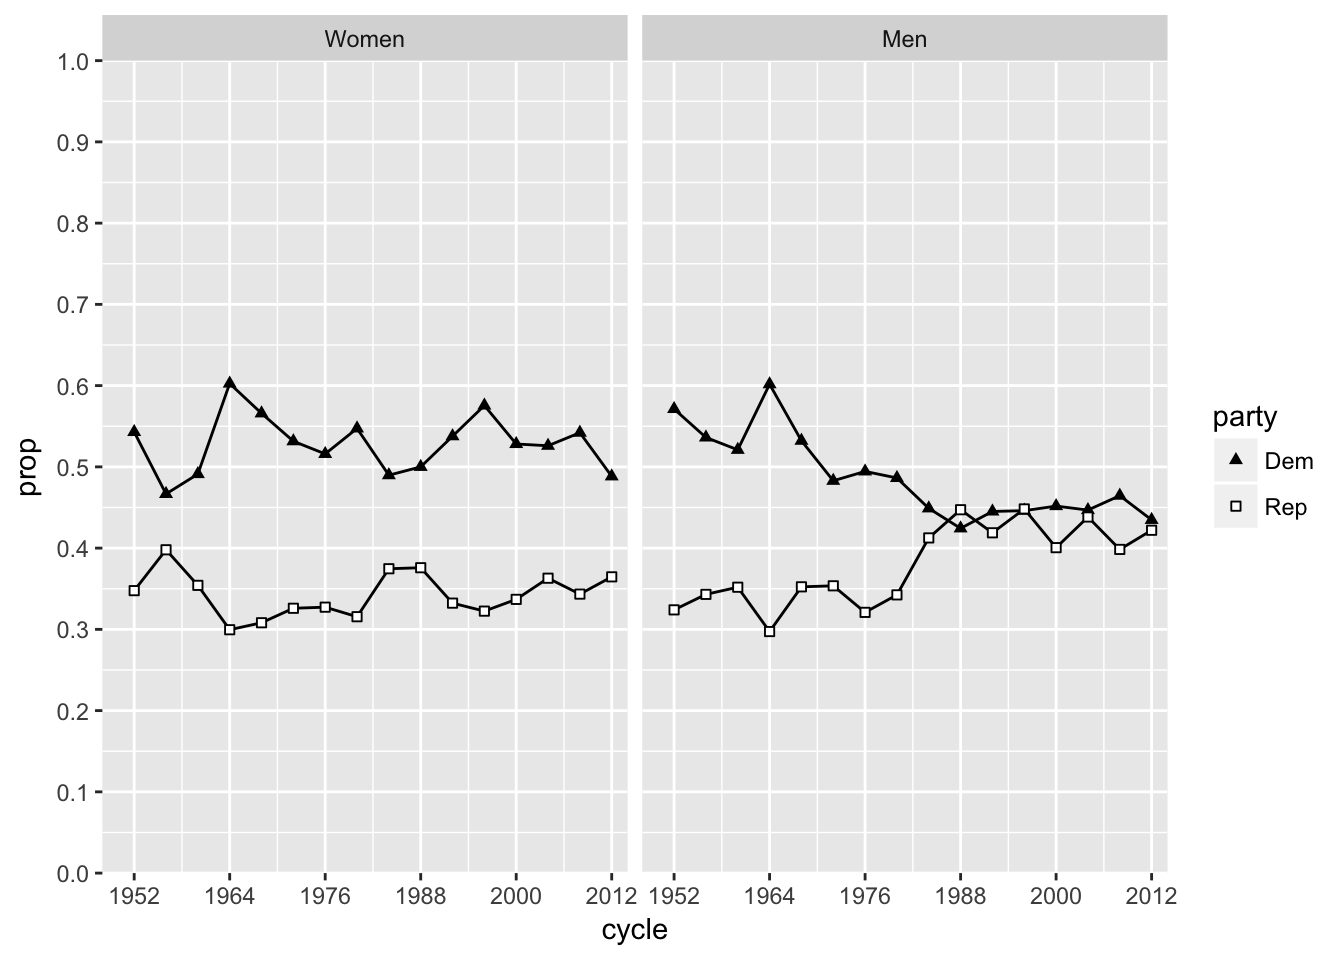
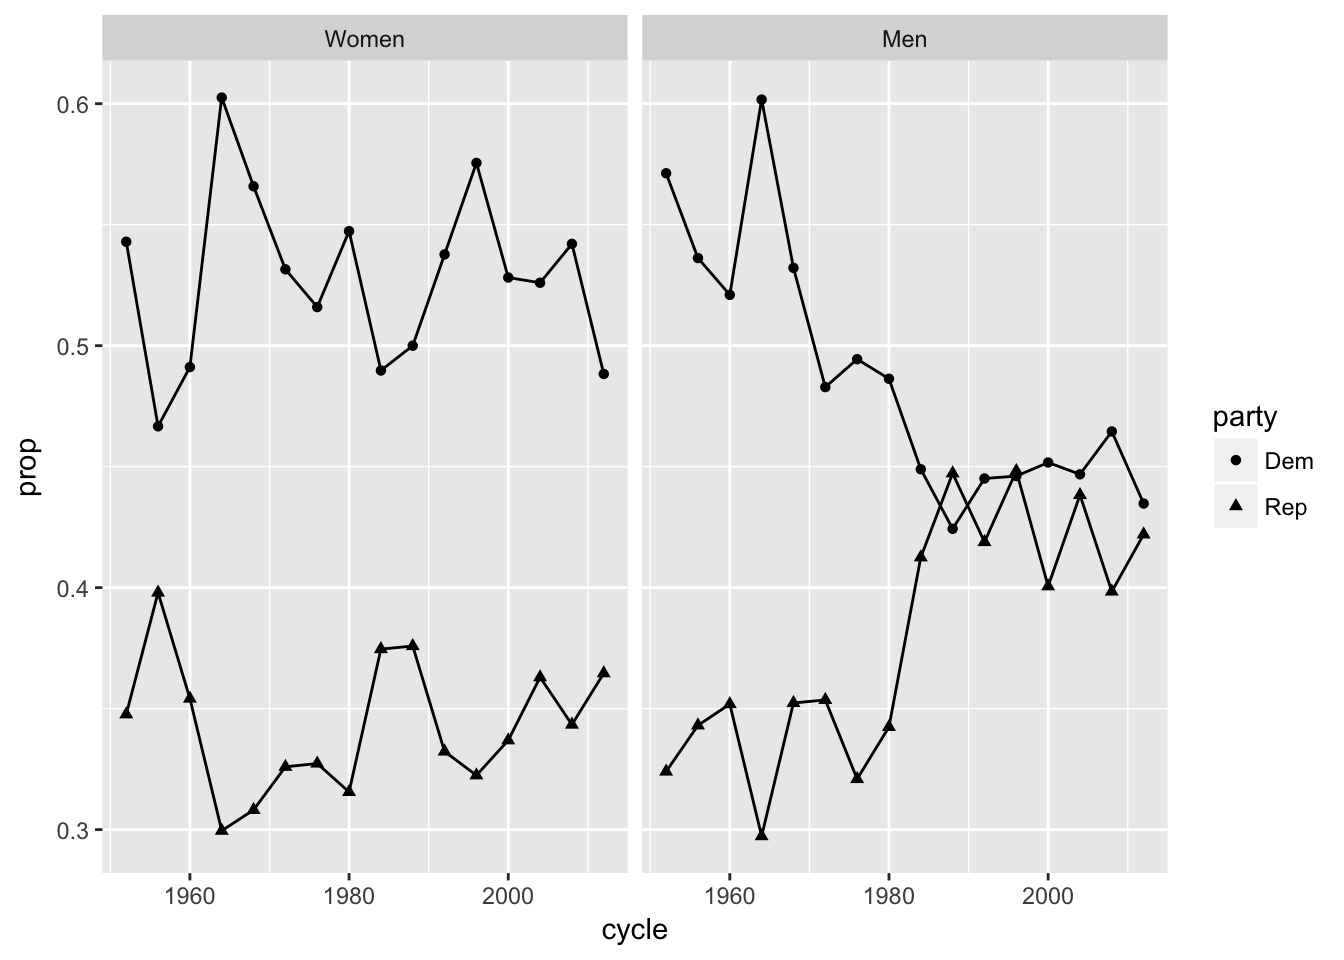
Site build Sun Sep 23 12:01:10 CDT 2018

diff --git a/css/main.min.css b/css/main.min.css
@@ -1,1 +1,1 @@
[2 lines of base64/hex data omitted]

diff --git a/811/811-graphics/index.html b/811/811-graphics/index.html
@@ -695,10 +695,7 @@ ggsave(&quot;paper/graphics/my-plot.PDF&quot;, width = 7, height = 3)</code></pr
 <div id="another-example-party-id-of-men-and-women-over-time" class="section level1">
 <h1>Another example: party ID of men and women over time</h1>
 <p>Let’s take these tools for a spin. Let’s re-create this graphic from an old paper from a former professor of mine.</p>
-<center>
-<br> <img src="img/kp-fig-1.png"  alt="kaufmann-petrocik-figure-1" style="width: 100%">
-</center>
-<p><br></p>
+<p><img src="/images/811/kp-fig-1.png" width="90%" /></p>
 <p>We will need to set up a dataset that has all of the required components. Let’s think of what we need to have in place.</p>
 <ul>
 <li><code>x</code> is election cycle, <code>y</code> is the percentage of men and women identifying as Democrat and Republican (aesthetics). We will need to calculate the <code>y</code> variable.</li>
@@ -796,7 +793,7 @@ ggplot(pid_gendergap, aes(x = cycle, y = prop)) +
   facet_grid(. ~ gender) +
   geom_line(aes(group = party)) +
   geom_point(aes(shape = party))</code></pre>
-<p><img src="/811/811-04-graphics_files/figure-html/unnamed-chunk-33-1.png" width="672" /></p>
+<p><img src="/811/811-04-graphics_files/figure-html/unnamed-chunk-34-1.png" width="672" /></p>
 <p>Let’s modify some scales. We’ll want to specify the point styles and change the axis scales.</p>
 <ul>
 <li>by default, fill any empty point with while fill (in <code>grom_point()</code>)</li>
@@ -813,7 +810,7 @@ ggplot(pid_gendergap, aes(x = cycle, y = prop)) +
   scale_shape_manual(values = c(17, 22)) +
   scale_y_continuous(breaks = seq(0, 1, .1)) +
   scale_x_continuous(breaks = seq(1952, 2012, 12))</code></pre>
-<p><img src="/811/811-04-graphics_files/figure-html/unnamed-chunk-34-1.png" width="672" /></p>
+<p><img src="/811/811-04-graphics_files/figure-html/unnamed-chunk-35-1.png" width="672" /></p>
 <p>The X axis looks funky now. Let’s do some theme modifications to make the text diagonal and suppress busy grid lines.</p>
 <pre class="r"><code>ggplot(pid_gendergap, aes(x = cycle, y = prop)) +
   facet_grid(. ~ gender) +
@@ -827,7 +824,7 @@ ggplot(pid_gendergap, aes(x = cycle, y = prop)) +
   theme_bw() +
   theme(axis.text.x = element_text(angle = 45, vjust = 0.8),
         panel.grid.minor = element_blank())</code></pre>
-<p><img src="/811/811-04-graphics_files/figure-html/unnamed-chunk-35-1.png" width="672" /></p>
+<p><img src="/811/811-04-graphics_files/figure-html/unnamed-chunk-36-1.png" width="672" /></p>
 <p>Let’s suppress the legend created by <code>geom_point()</code> and add text labels.</p>
 <pre class="r"><code>ggplot(pid_gendergap, aes(x = cycle, y = prop)) +
   facet_grid(. ~ gender) +
@@ -844,7 +841,7 @@ ggplot(pid_gendergap, aes(x = cycle, y = prop)) +
         panel.grid.minor = element_blank()) +
   annotate(&quot;text&quot;, x = 1984, y = 0.65, label = &quot;Democrats&quot;) +
   annotate(&quot;text&quot;, x = 1984, y = 0.25, label = &quot;Republicans&quot;)</code></pre>
-<p><img src="/811/811-04-graphics_files/figure-html/unnamed-chunk-36-1.png" width="672" /></p>
+<p><img src="/811/811-04-graphics_files/figure-html/unnamed-chunk-37-1.png" width="672" /></p>
 <p>If we want to add confidence intervals as ribbons, we’ll use <code>geom_ribbon()</code>. It inherits the <code>x</code> aesthetic from the plot, but we need to specify extra <code>ymin</code> and <code>ymax</code> aesthetics to draw the upper and lower bounds of the “polygon” that gets drawn. Again, suppress the legend, and for good measure, let’s modify the fill color.</p>
 <pre class="r"><code># I always prefer to add ribbons below points and lines
 # we want to reduce the ribbon opacity
@@ -867,7 +864,7 @@ ggplot(pid_gendergap, aes(x = cycle, y = prop)) +
         panel.grid.minor = element_blank()) +
   annotate(&quot;text&quot;, x = 1984, y = 0.65, label = &quot;Democrats&quot;) +
   annotate(&quot;text&quot;, x = 1984, y = 0.25, label = &quot;Republicans&quot;)</code></pre>
-<p><img src="/811/811-04-graphics_files/figure-html/unnamed-chunk-37-1.png" width="672" /></p>
+<p><img src="/811/811-04-graphics_files/figure-html/unnamed-chunk-38-1.png" width="672" /></p>
 <p>We’ll want to convert the axis to percentages. We can do this in the plot using the <code>scale_y_continuous()</code> function and applying a function to the labels.</p>
 <pre class="r"><code># check the labels = argument in scale_y_continuous
 # it uses the percent() function from the &#39;scales&#39; package
@@ -893,7 +890,7 @@ ggplot(pid_gendergap, aes(x = cycle, y = prop)) +
         panel.grid.minor = element_blank()) +
   annotate(&quot;text&quot;, x = 1984, y = 0.65, label = &quot;Democrats&quot;) +
   annotate(&quot;text&quot;, x = 1984, y = 0.25, label = &quot;Republicans&quot;)</code></pre>
-<p><img src="/811/811-04-graphics_files/figure-html/unnamed-chunk-38-1.png" width="672" /></p>
+<p><img src="/811/811-04-graphics_files/figure-html/unnamed-chunk-39-1.png" width="672" /></p>
 <p>Now we’ll need to change the labels so they fit the scale transformation.</p>
 <pre class="r"><code>ggplot(pid_gendergap, aes(x = cycle, y = prop)) +
   facet_grid(. ~ gender) +
@@ -918,7 +915,7 @@ ggplot(pid_gendergap, aes(x = cycle, y = prop)) +
   labs(x = NULL, y = &quot;Percent (including leaners)&quot;,
        title = &quot;Party Identification of Men and Women&quot;,
        caption = &quot;Source: NES Surveys of the indicated years&quot;)</code></pre>
-<p><img src="/811/811-04-graphics_files/figure-html/unnamed-chunk-39-1.png" width="672" /></p>
+<p><img src="/811/811-04-graphics_files/figure-html/unnamed-chunk-40-1.png" width="672" /></p>
 </div>
 </div>
 <div id="other-graphics" class="section level1">
@@ -942,7 +939,7 @@ anes %&gt;%
          color = &quot;Partisanship&quot;)</code></pre>
 <pre><code>## `stat_bin()` using `bins = 30`. Pick better value with `binwidth`.</code></pre>
 <pre><code>## Warning: Removed 31866 rows containing non-finite values (stat_bin).</code></pre>
-<p><img src="/811/811-04-graphics_files/figure-html/unnamed-chunk-41-1.png" width="672" /></p>
+<p><img src="/811/811-04-graphics_files/figure-html/unnamed-chunk-42-1.png" width="672" /></p>
 <p>Histogram bars are stacked by default, which is weird. Let’s make them dodge each other.</p>
 <pre class="r"><code># make histogram bars non-stacked (&quot;dodge&quot;)
 
@@ -961,7 +958,7 @@ anes %&gt;%
          fill = &quot;Partisanship&quot;)</code></pre>
 <pre><code>## `stat_bin()` using `bins = 30`. Pick better value with `binwidth`.</code></pre>
 <pre><code>## Warning: Removed 31866 rows containing non-finite values (stat_bin).</code></pre>
-<p><img src="/811/811-04-graphics_files/figure-html/unnamed-chunk-42-1.png" width="672" /></p>
+<p><img src="/811/811-04-graphics_files/figure-html/unnamed-chunk-43-1.png" width="672" /></p>
 <p>You can also do kernel density estimates (which allow you set the kernel bandwidth):</p>
 <pre class="r"><code># density plot instead of histogram
 
@@ -978,7 +975,7 @@ anes %&gt;%
          color = &quot;Partisanship&quot;,
          fill = &quot;Partisanship&quot;)</code></pre>
 <pre><code>## Warning: Removed 31866 rows containing non-finite values (stat_density).</code></pre>
-<p><img src="/811/811-04-graphics_files/figure-html/unnamed-chunk-43-1.png" width="672" /></p>
+<p><img src="/811/811-04-graphics_files/figure-html/unnamed-chunk-44-1.png" width="672" /></p>
 </div>
 <div id="bar-graphs" class="section level2">
 <h2>Bar graphs</h2>
@@ -1031,7 +1028,7 @@ ggplot(mean_votes, aes(x = pid7, y = prop)) +
        y = &quot;Democratic Share of Two-Party Vote&quot;) +
   theme_bw() +
   theme(panel.grid.minor = element_blank())</code></pre>
-<p><img src="/811/811-04-graphics_files/figure-html/unnamed-chunk-45-1.png" width="672" /></p>
+<p><img src="/811/811-04-graphics_files/figure-html/unnamed-chunk-46-1.png" width="672" /></p>
 <p>Here is the same plot as a dot plot, also changing the scales.</p>
 <pre class="r"><code># dots instead of bars
 ggplot(mean_votes, aes(x = pid7, y = prop)) +
@@ -1044,7 +1041,7 @@ ggplot(mean_votes, aes(x = pid7, y = prop)) +
        y = &quot;Democratic Share of Two-Party Vote&quot;) +
   theme_bw() +
   theme(panel.grid.minor = element_blank())</code></pre>
-<p><img src="/811/811-04-graphics_files/figure-html/unnamed-chunk-46-1.png" width="672" /></p>
+<p><img src="/811/811-04-graphics_files/figure-html/unnamed-chunk-47-1.png" width="672" /></p>
 <p>And you can often rotate dot plots so that their labels have more space to print out.</p>
 <pre class="r"><code># rotate the dot plot for axis readability
 # this should be used carefully...
@@ -1061,7 +1058,7 @@ ggplot(mean_votes, aes(x = pid7, y = prop)) +
   theme_bw() +
   theme(panel.grid.minor = element_blank()) +
   coord_flip()</code></pre>
-<p><img src="/811/811-04-graphics_files/figure-html/unnamed-chunk-47-1.png" width="672" /></p>
+<p><img src="/811/811-04-graphics_files/figure-html/unnamed-chunk-48-1.png" width="672" /></p>
 <p>There are some other things you can do with geoms. One thing you can do for dot plots is use <code>geom_pointrange</code>, which adds a point and an error bar. Like <code>geom_ribbon</code>, it takes a <code>ymin</code> and <code>ymax</code> aesthetic. This makes it good for point estimates and confidence intervals. In this case though, we’ll use it in a slightly hacky way to help us trace which point goes with which category, making it a little easier to read the plot. Notice how I set the min and max aesthetics.</p>
 <pre class="r"><code># set ymin = 0, ymax = prop. 
 # the error bar goes from 0 to the point
@@ -1078,7 +1075,7 @@ ggplot(mean_votes, aes(x = pid7, y = prop)) +
   theme_bw() +
   theme(panel.grid.minor = element_blank()) +
   coord_flip()</code></pre>
-<p><img src="/811/811-04-graphics_files/figure-html/unnamed-chunk-48-1.png" width="672" /></p>
+<p><img src="/811/811-04-graphics_files/figure-html/unnamed-chunk-49-1.png" width="672" /></p>
 <hr />
 </div>
 </div>
@@ -1099,14 +1096,14 @@ d &lt;- data_frame(x = rnorm(100, 0, 1),
 ggplot(d, aes(x = s, y = y)) +
   geom_jitter(width = 0.15) +
   labs(x = &quot;String&quot;, y = &quot;Continuous Y&quot;) </code></pre>
-<p><img src="/811/811-04-graphics_files/figure-html/unnamed-chunk-49-1.png" width="672" /></p>
+<p><img src="/811/811-04-graphics_files/figure-html/unnamed-chunk-50-1.png" width="672" /></p>
 <p>…and if we plot from a factor that already has ordered levels…</p>
 <pre class="r"><code># plot y as f(f), jittered points
 # notice weird order. This comes from the underlying data
 ggplot(d, aes(x = f, y = y)) +
   geom_jitter(width = 0.15) +
   labs(x = &quot;Ordered Factor&quot;, y = &quot;Continuous Y&quot;) </code></pre>
-<p><img src="/811/811-04-graphics_files/figure-html/unnamed-chunk-50-1.png" width="672" /></p>
+<p><img src="/811/811-04-graphics_files/figure-html/unnamed-chunk-51-1.png" width="672" /></p>
 <p>…or we wanted to assign colors using an ordered factor.</p>
 <pre class="r"><code># same situation here
 ggplot(d, aes(x = x, y = y)) +
@@ -1114,7 +1111,7 @@ ggplot(d, aes(x = x, y = y)) +
   labs(x = &quot;Continuous X&quot;, 
        y = &quot;Continuous Y&quot;,
        color = &quot;Ordered Factor&quot;) </code></pre>
-<p><img src="/811/811-04-graphics_files/figure-html/unnamed-chunk-51-1.png" width="672" /></p>
+<p><img src="/811/811-04-graphics_files/figure-html/unnamed-chunk-52-1.png" width="672" /></p>
 <p>To reorder these categories, I recommend using tools in the <code>forcats</code> package, which, conveniently, is part of <code>tidyverse</code>.</p>
 <ul>
 <li><code>fct_relevel()</code>: take a factor variable and reorder the levels. Any level not listed during reordering is given the same precedence as the original variable</li>
@@ -1150,12 +1147,12 @@ ggplot(fixed_d, aes(x = x, y = y)) +
   labs(x = &quot;Continuous X&quot;, 
        y = &quot;Continuous Y&quot;,
        color = &quot;Ordered Factor&quot;) </code></pre>
-<p><img src="/811/811-04-graphics_files/figure-html/unnamed-chunk-53-1.png" width="672" /></p>
+<p><img src="/811/811-04-graphics_files/figure-html/unnamed-chunk-54-1.png" width="672" /></p>
 <pre class="r"><code># f as x axis
 ggplot(fixed_d, aes(x = f, y = y)) +
   geom_point(shape = 1) +
   labs(x = &quot;Ordered Factor&quot;, y = &quot;Continuous Y&quot;) </code></pre>
-<p><img src="/811/811-04-graphics_files/figure-html/unnamed-chunk-53-2.png" width="672" /></p>
+<p><img src="/811/811-04-graphics_files/figure-html/unnamed-chunk-54-2.png" width="672" /></p>
 <div id="an-aside-on-stringr" class="section level2">
 <h2>An aside on <code>stringr</code></h2>
 <p>The <code>stringr</code> package contains a few useful functions for modifying character vectors.</p>

diff --git a/811/811-data/index.html b/811/811-data/index.html
@@ -60,7 +60,7 @@
     "datePublished": "2018-02-09 00:00:00 &#43;0000 UTC",
     "dateModified" : "2018-02-09 00:00:00 &#43;0000 UTC",
     "url" : "/811/811-data/",
-    "wordCount" : "8455",
+    "wordCount" : "8393",
     "keywords" : [ "ps811","R", "Michael DeCrescenzo"]
 }
 </script>
@@ -218,10 +218,7 @@
 <h1>Setting up a project</h1>
 <p>Each projects should have a dedicated folder on your computer. These folders should be internally organized: separate folders for data, R scripts, writing, other documentation, and so on.</p>
 <p>Here is an example of one of my project folders.</p>
-<center>
-<br> <img src="img/dir.png" alt="project-directory" style="width: 90%;"/>
-</center>
-<p><br></p>
+<p><img src="/images/811/dir.png" width="80%" /></p>
 <p>For this class, set up your class folder like this:</p>
 <ul>
 <li>You should already have a dedicated <code>ps811</code> folder</li>
@@ -266,16 +263,6 @@ getwd()</code></pre>
 
 library(&quot;magrittr&quot;)
 library(&quot;tidyverse&quot;)</code></pre>
-<pre><code>## ── Attaching packages ────────────────────────────────── tidyverse 1.2.1 ──</code></pre>
-<pre><code>## ✔ ggplot2 2.2.1     ✔ purrr   0.2.4
-## ✔ tibble  1.4.2     ✔ dplyr   0.7.4
-## ✔ tidyr   0.8.0     ✔ stringr 1.3.1
-## ✔ readr   1.1.1     ✔ forcats 0.3.0</code></pre>
-<pre><code>## ── Conflicts ───────────────────────────────────── tidyverse_conflicts() ──
-## ✖ tidyr::extract()   masks magrittr::extract()
-## ✖ dplyr::filter()    masks stats::filter()
-## ✖ dplyr::lag()       masks stats::lag()
-## ✖ purrr::set_names() masks magrittr::set_names()</code></pre>
 <p>When you load <code>tidyverse</code>, you should see a warning that it “masks” some names in the <code>magrittr</code> and other packages. This means some of the function names in the packages are the same. This is <em>generally</em> something you should be watching out for, since your code may not work as intended. It won’t be a problem right now, though.</p>
 </div>
 <div id="read-external-data" class="section level1">

diff --git a/811/811-basics/index.html b/811/811-basics/index.html
@@ -223,10 +223,7 @@
 <div id="using-r" class="section level1">
 <h1>Using R</h1>
 <p>The most essential part of using R is the <em>console</em>. This is where results of all commands are displayed. There is a prompt at the bottom of the console where commands can be submitted directly. Yours won’t be the same colors as mine, but it looks sort of like this:</p>
-<center>
-<br> <img src="img/r-console.png"  alt="R console" style="width: 80%">
-</center>
-<p><br></p>
+<p><img src="/images/811/r-console.png" width="90%" /></p>
 <p>Although you can type commands directly into the console, most commands should be written in a <em>script file</em>. Script files serve the same purpose as they do in Stata; they provide a record of all commands you want to run in your analysis. This lets you replicate your analysis the next day, the next week, the next year, or whenever (presuming your code does not become obsolete for some reason).</p>
 </div>
 <div id="editing-an-r-script-file" class="section level1">
@@ -455,19 +452,19 @@ x &lt;- rnorm(n = 10000, mean = 0, sd = 1)
 
 # sum
 sum(x) </code></pre>
-<pre><code>## [1] -157.8188</code></pre>
+<pre><code>## [1] -13.81984</code></pre>
 <pre class="r"><code># number of elements in an object
 length(x) </code></pre>
 <pre><code>## [1] 10000</code></pre>
 <pre class="r"><code># mean
 mean(x) </code></pre>
-<pre><code>## [1] -0.01578188</code></pre>
+<pre><code>## [1] -0.001381984</code></pre>
 <pre class="r"><code># variance
 var(x) </code></pre>
-<pre><code>## [1] 1.001382</code></pre>
+<pre><code>## [1] 0.9781618</code></pre>
 <pre class="r"><code># standard deviation
 sd(x) </code></pre>
-<pre><code>## [1] 1.000691</code></pre>
+<pre><code>## [1] 0.9890206</code></pre>
 <p>It is easy to write your own functions in R. We will cover this in the final lesson.</p>
 </div>
 <div id="help-files" class="section level1">

diff --git a/811/811-analysis/index.html b/811/811-analysis/index.html
@@ -60,7 +60,7 @@
     "datePublished": "2018-02-23 00:00:00 &#43;0000 UTC",
     "dateModified" : "2018-02-23 00:00:00 &#43;0000 UTC",
     "url" : "/811/811-analysis/",
-    "wordCount" : "11158",
+    "wordCount" : "11161",
     "keywords" : [ "ps811","R", "Michael DeCrescenzo"]
 }
 </script>
@@ -192,7 +192,8 @@
           
           
 
-          <div id="schedule" class="section level1">
+          <pre class="r"><code>knitr::opts_chunk$set(cache = TRUE)</code></pre>
+<div id="schedule" class="section level1">
 <h1>Schedule</h1>
 <p>Read this before our final lecture, after the <a href="811/811-graphics">graphics lesson</a>.</p>
 </div>
